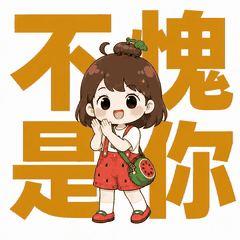
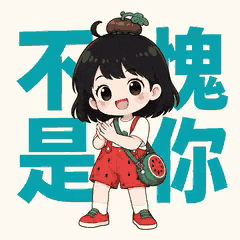
fix: recolor 不愧是你 cream bg, teal text, cherry-red overalls

diff --git a/src/lib/packs.ts b/src/lib/packs.ts
@@ -246,11 +246,11 @@ export const PACKS: Pack[] = [
 ];
 
 export function stickerGif(packId: string, stickerId: string) {
-  return `/stickers/${packId}/${stickerId}.gif?v=75`;
+  return `/stickers/${packId}/${stickerId}.gif?v=76`;
 }
 
 export function stickerPng(packId: string, stickerId: string) {
-  return `/stickers/${packId}/${stickerId}.png?v=75`;
+  return `/stickers/${packId}/${stickerId}.png?v=76`;
 }
 
 export function getPack(id: string) {

diff --git a/src/routes/pack.$id.tsx b/src/routes/pack.$id.tsx
@@ -77,7 +77,7 @@ function PackPage() {
           </button>
           {inProgress ? null : (
             <a
-              href={`/downloads/${pack.id}.zip?v=75`}
+              href={`/downloads/${pack.id}.zip?v=76`}
               download={`${pack.name}.zip`}
               className="inline-flex h-11 items-center justify-center rounded-md border border-line px-4 text-sm font-semibold text-ink"
             >
